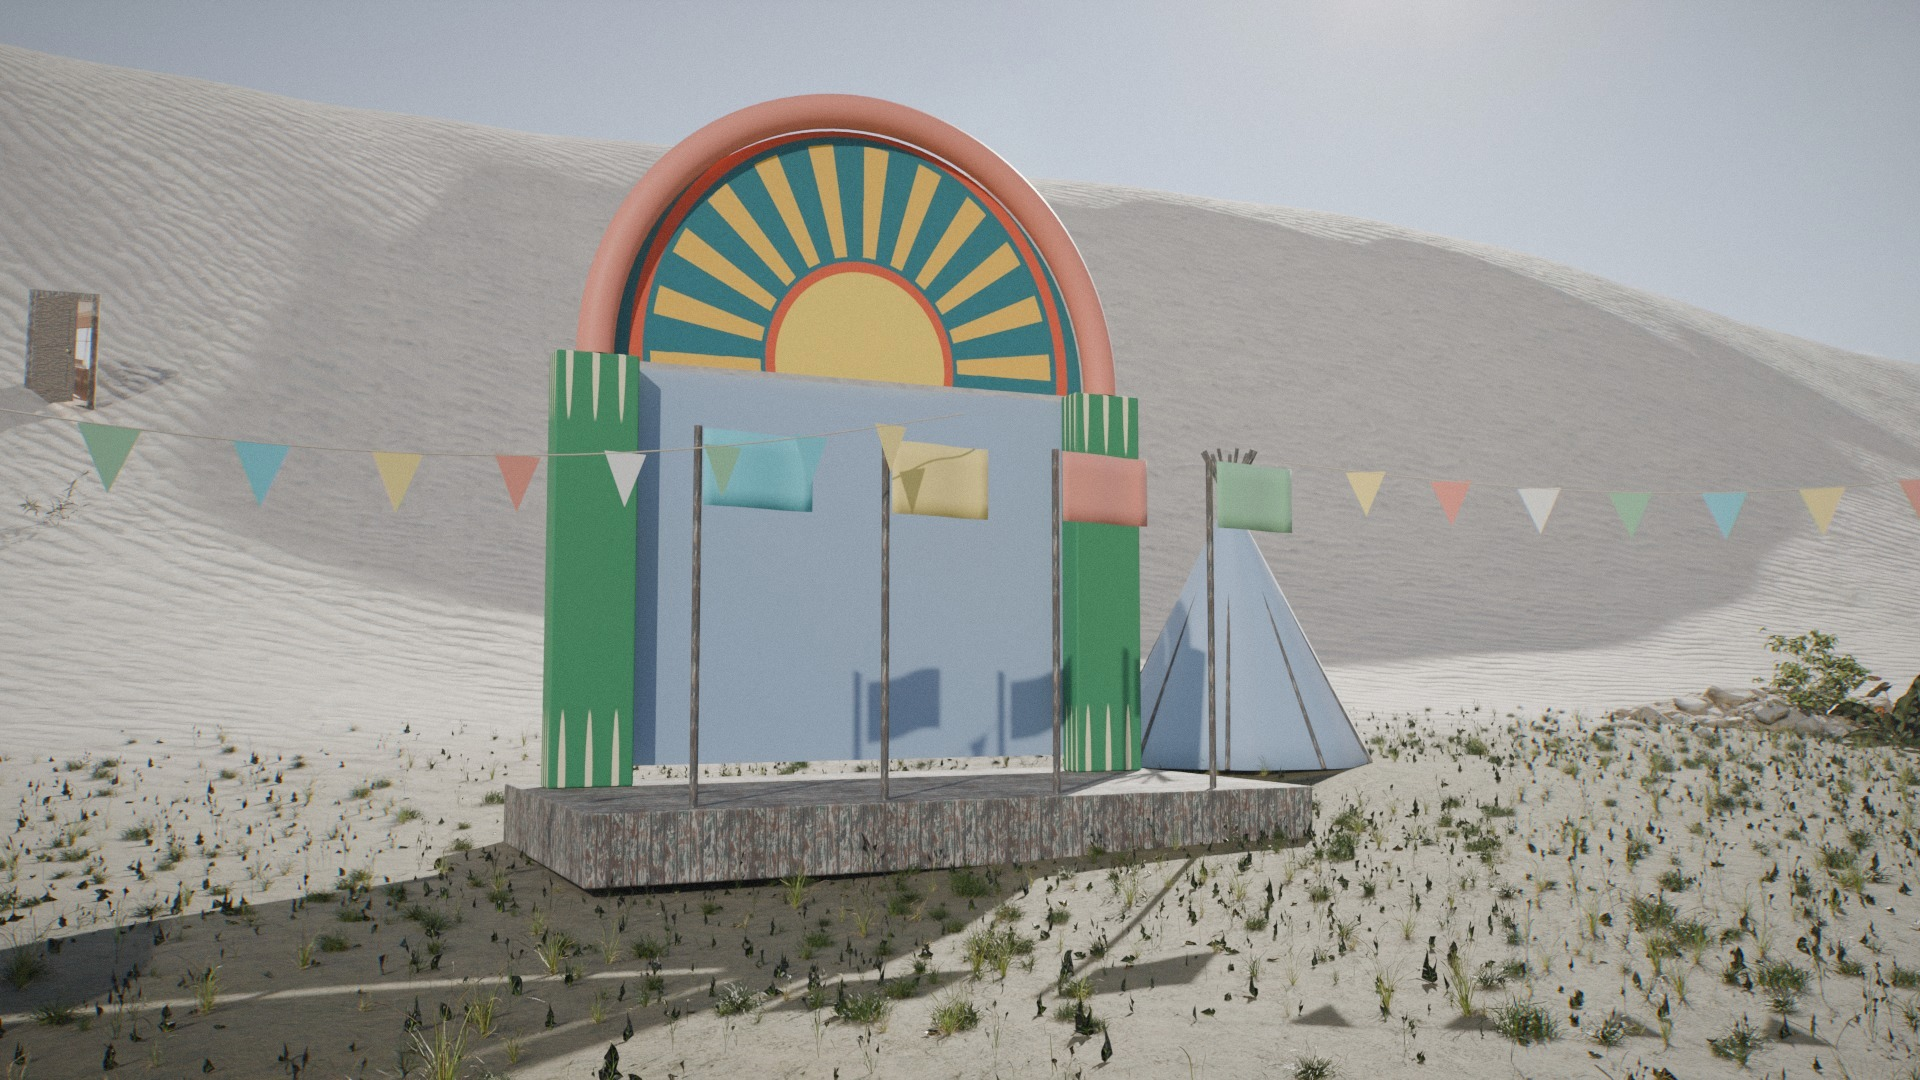
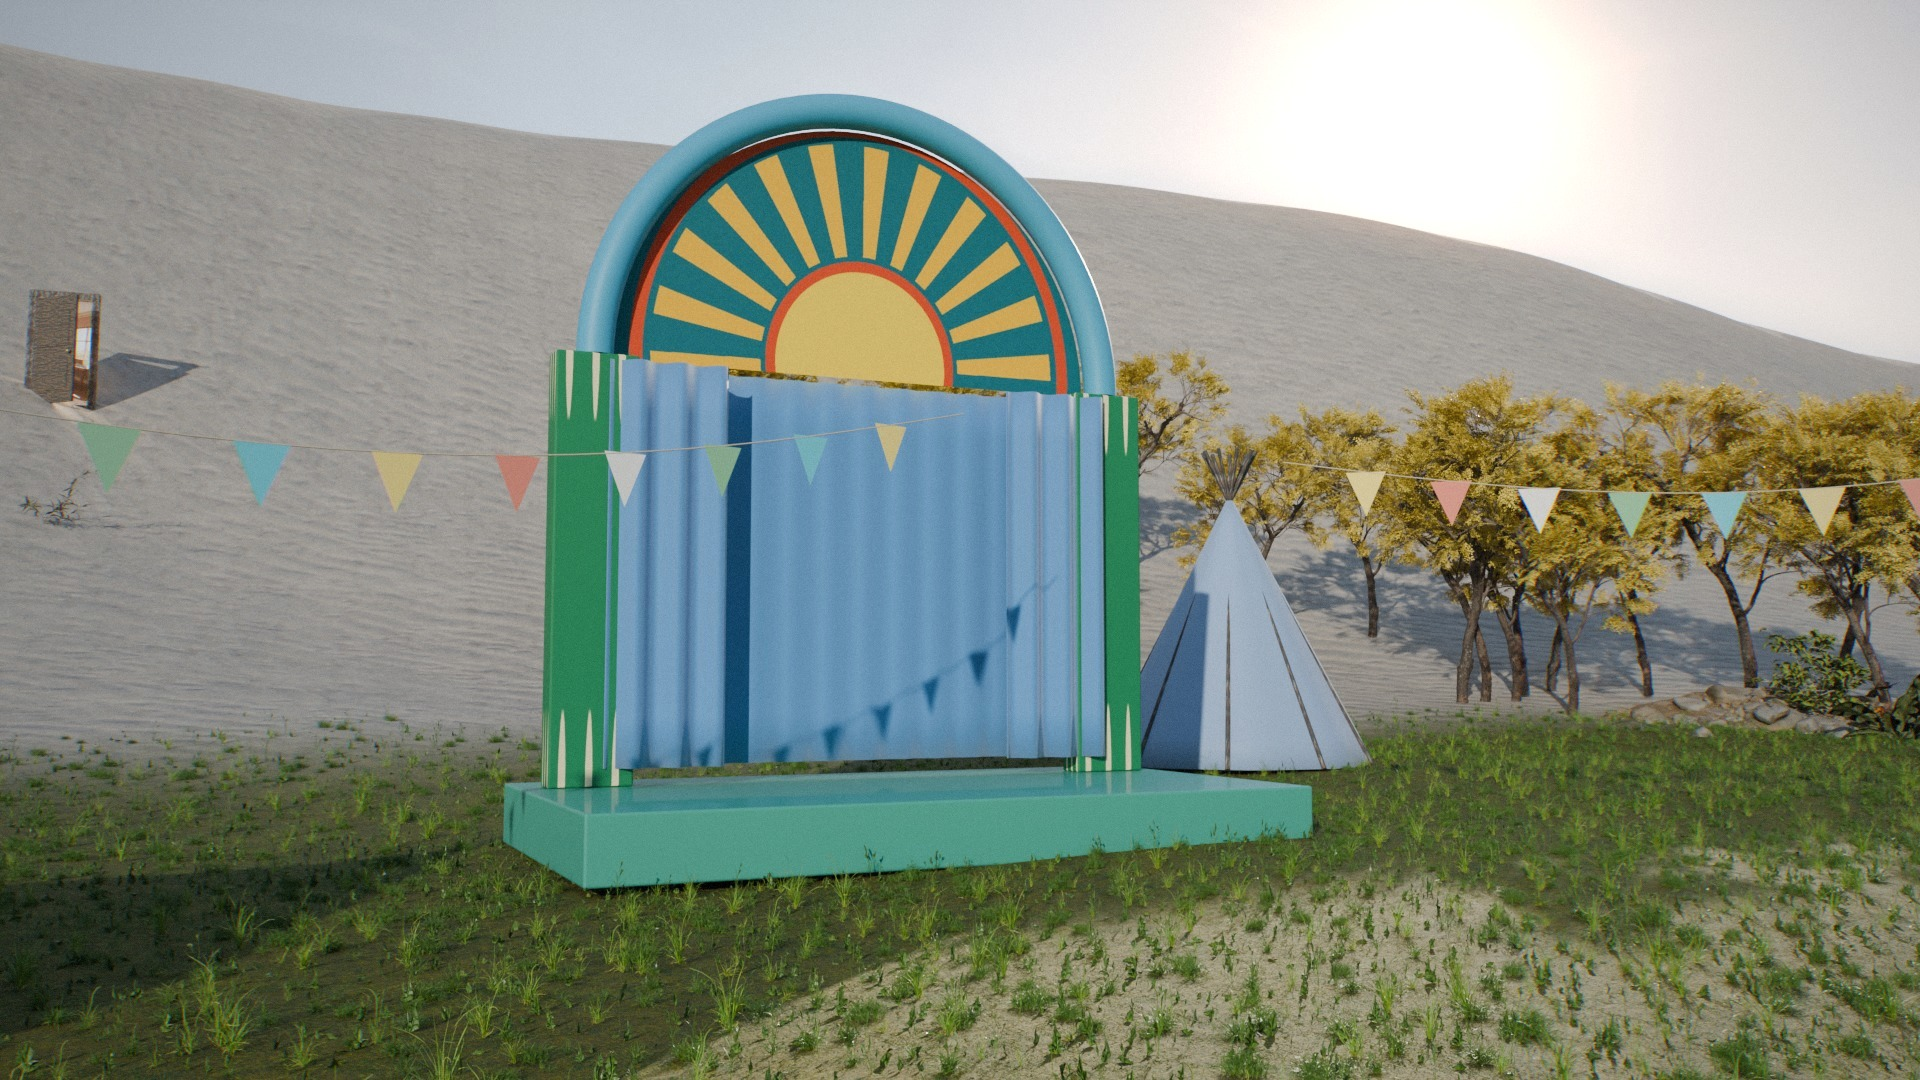
Match the paradise frames to the official MV
- lush green lawn, golden-yellow bush clusters, clear late-afternoon sky
- green wagon stage with blue velvet curtains and a teal sun canopy, flag poles removed
- window plate re-rendered so the room looks out on the yellow trees

diff --git a/blender/pitch_frames.py b/blender/pitch_frames.py
@@ -347,7 +347,9 @@ for mid in sorted({m for v in PLANTS.values() for m in v}) + ["Sofa_01", "ArmCha
             "vintage_grandfather_clock_01", "vintage_oil_lamp", "wooden_table_02", "painted_wooden_chair_01"] + ROOM_PROPS:
     import_model(mid)
 for mid in PLANTS["grass"]:
-    recolor(mid, lambda n: True, hsv=(0.53, 1.35, 1.15))
+    recolor(mid, lambda n: True, hsv=(0.56, 1.6, 1.35), tint=(0.3, 0.55, 0.12, 0.35))
+import_model("tree_small_02")
+recolor("tree_small_02", lambda n: "leaf" in n or "leaves" in n or "foliage" in n, tint=(0.95, 0.7, 0.12, 0.75))
 
 # ---------------------------------------------------------------- shared materials
 M_LINEN = pbr("canvas", "rough_linen", scale=2.0, tint=(0.97, 0.95, 0.9), sheen=0.4)
@@ -403,7 +405,7 @@ def world_from_hdr(name, hdr_path, strength, sun_az_deg, min_elev=8, tint=None):
 
 
 # ================================================================== PARADISE (Bàu Trắng, Mũi Né)
-W_DAY = world_from_hdr("day", os.path.join(ASSETS, "h", "rustig_koppie_puresky_8k.hdr"), 1.0, sun_az_deg=-125)
+W_DAY = world_from_hdr("day", os.path.join(ASSETS, "h", "qwantani_late_afternoon_puresky_8k.hdr"), 1.0, sun_az_deg=-125, tint=(0.9, 0.98, 1.12))
 W_GOLD = world_from_hdr("golden", os.path.join(ASSETS, "h", "qwantani_sunset_puresky_8k.hdr"), 1.1, sun_az_deg=160, min_elev=10)
 P.world = W_DAY
 SUN_P = light(P, "SUN", "sun", 3.6, (1.0, 0.95, 0.86), (0, 0, 50))
@@ -431,7 +433,7 @@ Z, DUNE, LAKE = terrain(X, Y)
 dist = np.hypot(X - 4, Y + 10)
 patch = 0.5 + 0.5 * np.sin(X * 0.17 + np.sin(Y * 0.11) * 2.0) * np.cos(Y * 0.13 + X * 0.05)
 MEADOW = smooth(0.9 - DUNE, 0.0, 0.6) * (1 - smooth(LAKE, 0.02, 0.15)) * (1 - smooth(Y, 34, 46)) * (1 - smooth(dist, 75, 115))
-MEADOW = np.clip(MEADOW * (0.55 + 0.6 * patch), 0, 1)
+MEADOW = np.clip(MEADOW * (0.9 + 0.3 * patch), 0, 1)
 verts = np.stack([X.ravel(), Y.ravel(), Z.ravel()], 1).astype(np.float32)
 idx = np.arange((N + 1) * (N + 1)).reshape(N + 1, N + 1)
 quads = np.stack([idx[:-1, :-1], idx[:-1, 1:], idx[1:, 1:], idx[1:, :-1]], -1).reshape(-1, 4)
@@ -509,7 +511,7 @@ hs = node(nt, "ShaderNodeHueSaturation")
 hs.inputs["Saturation"].default_value = 0.3
 hs.inputs["Value"].default_value = 1.7
 nt.links.new(sand, hs.inputs["Color"])
-sand = mixc(1.0, hs.outputs["Color"], (1.0, 0.95, 0.87, 1), "MULTIPLY")
+sand = mixc(1.0, hs.outputs["Color"], (1.0, 0.93, 0.8, 1), "MULTIPLY")
 # large-scale tone variation so the white sand is never one flat colour
 vn = node(nt, "ShaderNodeTexNoise")
 vn.inputs["Scale"].default_value = 0.035
@@ -522,10 +524,11 @@ for k in ("Red", "Green", "Blue"):
     nt.links.new(vr.outputs["Result"], vc.inputs[k])
 sand = mixc(1.0, sand, vc.outputs["Color"], "MULTIPLY")
 gh = node(nt, "ShaderNodeHueSaturation")
-gh.inputs["Hue"].default_value = 0.55
-gh.inputs["Saturation"].default_value = 1.4
+gh.inputs["Hue"].default_value = 0.58
+gh.inputs["Saturation"].default_value = 1.7
+gh.inputs["Value"].default_value = 1.4
 nt.links.new(grs_d.outputs["Color"], gh.inputs["Color"])
-meadow_col = mixc(0.3, gh.outputs["Color"], mud_d.outputs["Color"])
+meadow_col = mixc(0.12, gh.outputs["Color"], mud_d.outputs["Color"])
 col = mixc(gattr("shore"), sand, damp_d.outputs["Color"])
 col = mixc(gattr("meadow"), col, meadow_col)
 nt.links.new(col, b.inputs["Base Color"])
@@ -624,11 +627,20 @@ def scatter(name, mids, density, mask, smin, smax, clump=0.0, seed=0, tilt=0.12,
     ground.modifiers.new(name, "NODES").node_group = ng
 
 
-scatter("grass", PLANTS["grass"], 24.0, "meadow", 0.55, 1.25, clump=0.18, seed=1, crange=(0.3, 0.5))
+scatter("grass", PLANTS["grass"], 45.0, "meadow", 0.45, 0.95, clump=0.18, seed=1, crange=(0.15, 0.35))
 scatter("bloom", PLANTS["bloom"], 0.25, "wild", 0.45, 0.9, clump=0.07, seed=2)
 scatter("edge", PLANTS["edge"], 0.5, "edge", 0.6, 1.4, clump=0.12, seed=3, tilt=0.3)
 scatter("dunefoot", PLANTS["dunefoot"], 0.03, "dunefoot", 0.8, 1.6, clump=0.05, seed=4)
 scatter("shore", PLANTS["shore"], 0.4, "shore", 0.6, 1.5, clump=0.1, seed=5, tilt=0.3)
+
+rng = np.random.default_rng(8)
+for cx, cy, n in ((-18, 27, 15), (-31, 23, 10), (24, 27, 12), (14, 33, 8)):
+    for i in range(n):
+        x, y = cx + rng.normal(0, 3.6), cy + rng.normal(0, 2.0)
+        t = terrain(np.array(x), np.array(y))
+        if float(t[2]) > 0.02:
+            continue
+        spawn("tree_small_02", P, loc=(x, y, float(t[0]) - 0.1), rz=rng.uniform(0, TAU), s=rng.uniform(0.95, 1.35))
 
 # --- festival camp ---------------------------------------------------------------
 def ground_z(x, y):
@@ -660,15 +672,15 @@ def leaf_panel():
     img[:] = (0.18, 0.5, 0.32)
     dots = ((xx % 64 - 32) ** 2 + (yy % 80 - 40) ** 2) < 110
     img[dots] = (0.95, 0.88, 0.7)
-    img[(xx < 14) | (xx > W_ - 14)] = (0.82, 0.25, 0.16)
+    img[(xx < 14) | (xx > W_ - 14)] = (0.92, 0.9, 0.82)
     return save_png("leaf_panel", img)
 
 
 stage = empty("stage", P, loc=(7, 17, ground_z(7, 17) - 0.05), rz=0.12)
-mesh_obj("deck", bm_box(6.0, 3.2, 0.5), M_WOOD, P, stage, loc=(0, 0, 0.25), bevel=0.02)
+mesh_obj("deck", bm_box(6.0, 3.2, 0.5), flat("wagon_green", (0.07, 0.36, 0.26), rough=0.55, coat=0.2), P, stage, loc=(0, 0, 0.25), bevel=0.02)
 m_sun = image_mat("sun_panel", painted_panel(), rough=0.7)
 m_leaf = image_mat("leaf_panel", leaf_panel(), rough=0.7)
-M_TRIM_RED = flat("trim_red", (0.75, 0.22, 0.14), rough=0.55)
+M_TRIM_RED = flat("trim_teal", (0.08, 0.36, 0.52), rough=0.5)
 for sx in (-1, 1):
     mesh_obj("pillar", bm_box(0.7, 0.3, 3.6), m_leaf, P, stage, loc=(sx * 2.45, 0.9, 2.3), bevel=0.02)
 arch = mesh_obj("arch", bm_torus(2.45, 0.16, 48, 12, math.pi), M_TRIM_RED, P, stage, loc=(0, 0.9, 4.1), rot=(math.pi / 2, 0, 0), smooth_shade=True)
@@ -680,14 +692,13 @@ for i in range(48):
     for lp in f.loops:
         lp[uvl].uv = (0.5 + lp.vert.co.x / 4.6, lp.vert.co.y / 2.3 * 0.95)
 mesh_obj("sun", bm, m_sun, P, stage, loc=(0, 1.0, 4.1), rot=(math.pi / 2, 0, 0))
-mesh_obj("back_cloth", bm_plane(4.6, 3.4, 20, 6), M_LINEN, P, stage, loc=(0, 1.05, 2.35), rot=(math.pi / 2, 0, 0))
-for i, c in enumerate(((0.12, 0.6, 0.7), (0.95, 0.75, 0.2), (0.8, 0.25, 0.18), (0.25, 0.55, 0.3))):
-    x = -2.2 + i * 1.45
-    mesh_obj("fpole", bm_cyl(0.03, 0.03, 3.2, 10), M_WOOD, P, stage, loc=(x, -1.4, 1.6))
-    fb = bm_plane(0.9, 0.55, 12, 4)
-    for vv in fb.verts:
-        vv.co.z += math.sin((vv.co.x + 0.45) * 7) * 0.05 * (vv.co.x + 0.45)
-    mesh_obj("flag", fb, flat("flag%d" % i, c, rough=0.8, sheen=0.4), P, stage, loc=(x + 0.46, -1.4, 2.9), rot=(math.pi / 2, 0, 0.2), smooth_shade=True).modifiers.new("s", "SOLIDIFY").thickness = 0.004
+M_STAGE_CURTAIN = pbr("stage_curtain", "velour_velvet", scale=3, hsv=(0.5, 0.0, 1.8), tint=(0.12, 0.34, 0.66), sheen=0.8)
+for name, w_, x0, depth in (("back_cloth", 4.6, 0.0, 0.06), ("drape_l", 1.0, -1.85, 0.12), ("drape_r", 1.0, 1.85, 0.12)):
+    cb = bm_plane(w_, 3.4, 40, 8)
+    for vv in cb.verts:
+        vv.co.z += math.sin(vv.co.x * 18) * depth * 0.5
+    y0 = 1.05 if name == "back_cloth" else 0.7
+    mesh_obj(name, cb, M_STAGE_CURTAIN, P, stage, loc=(x0, y0, 2.35), rot=(math.pi / 2, 0, 0), smooth_shade=True).modifiers.new("s", "SOLIDIFY").thickness = 0.01
 
 
 def dome_tent(name, loc, r=1.3, h=1.25, rz=0.0):
@@ -800,7 +811,7 @@ hm.use_nodes = True
 hnt = hm.node_tree
 hnt.nodes.remove(hnt.nodes["Principled BSDF"])
 hv = node(hnt, "ShaderNodeVolumePrincipled")
-hv.inputs["Density"].default_value = 0.0005
+hv.inputs["Density"].default_value = 0.00025
 hv.inputs["Color"].default_value = (0.86, 0.92, 1.0, 1)
 hnt.links.new(hv.outputs[0], hnt.nodes["Material Output"].inputs["Volume"])
 haze.data.materials.append(hm)
@@ -1042,6 +1053,10 @@ samples = int(ARGS.get("--samples", 256))
 setup(P, samples)
 setup(R, int(samples * 1.5))
 P.view_settings.exposure = 0.0
+try:
+    P.view_settings.look = "AgX - Medium High Contrast"
+except Exception:
+    pass
 R.view_settings.exposure = 0.85
 
 if ARGS.get("--save"):

diff --git a/akmu-pitch/CREDITS.md b/akmu-pitch/CREDITS.md
@@ -6,7 +6,9 @@
 
 | 종류 | 에셋 | 쓰인 곳 |
 |---|---|---|
-| HDRI 하늘 | rustig_koppie_puresky (8K) | 낮 장면 F1·F3, 방 창밖 하늘과 햇빛 |
+| HDRI 하늘 | qwantani_late_afternoon_puresky (8K) | 낮 장면 F1·F3과 방 창밖 풍경 (MV의 맑은 늦은 오후) |
+| HDRI 하늘 | rustig_koppie_puresky (8K) | 방 안으로 드는 햇빛과 하늘빛 |
+| 나무 | tree_small_02 (잎을 금빛으로 재채색) | MV의 노란 덤불 군락 |
 | HDRI 하늘 | qwantani_sunset_puresky (8K) | 늦은 오후 F2 |
 | 텍스처 | aerial_beach_01 (4K) | 사구의 30m 단위 바람 자국 |
 | 텍스처 | coast_sand_01, damp_beach_sand, brown_mud_02, sparse_grass | 고운 모래, 호숫가 젖은 모래, 습지 흙, 초원 바닥 |
